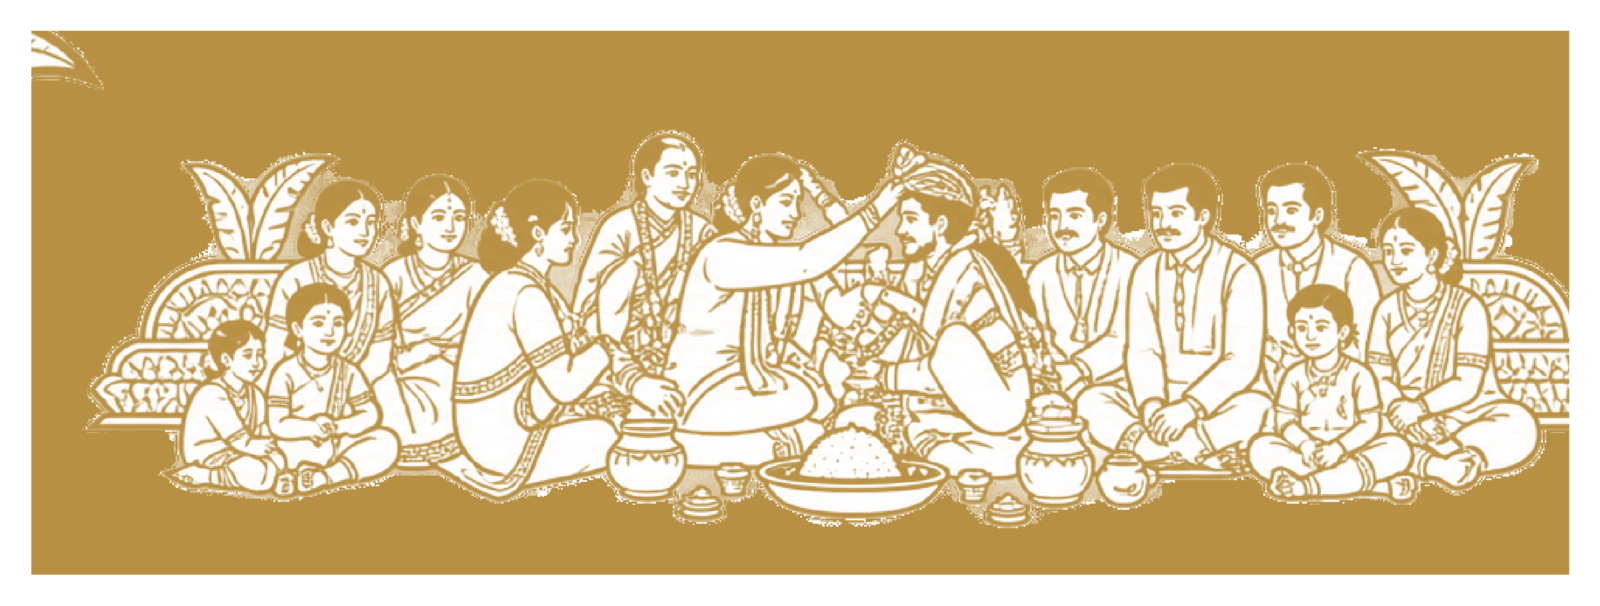
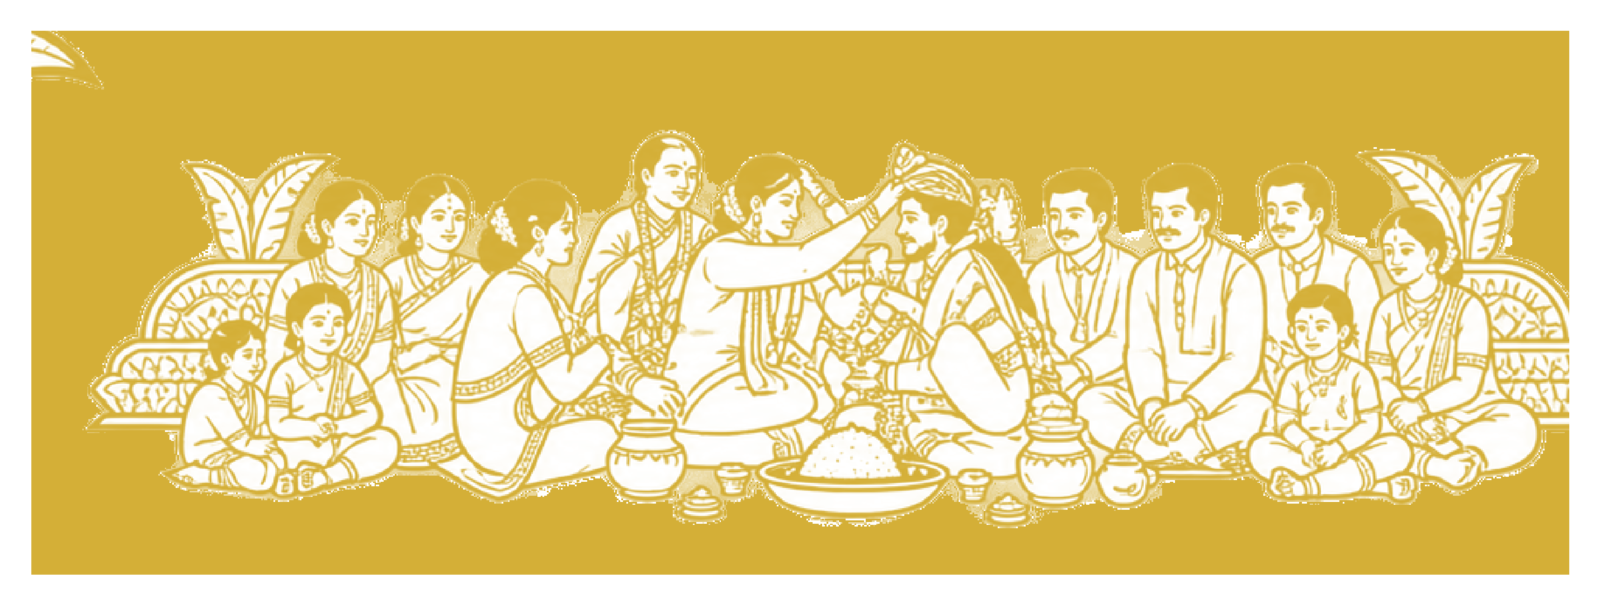
Wedding scene: pure shining gold with golden glow

diff --git a/app/components/HeroSection.tsx b/app/components/HeroSection.tsx
@@ -24,7 +24,7 @@ export default function HeroSection() {
           alt="Wedding family scene"
           initial={{ opacity: 0, y: -10 }} animate={{ opacity: 1, y: 0 }} transition={{ duration: 0.8 }}
           className="mx-auto mb-6"
-          style={{ width: "min(90vw, 520px)", height: "auto", filter: "drop-shadow(0 4px 14px rgba(0,0,0,0.4))" }}
+          style={{ width: "min(90vw, 520px)", height: "auto", filter: "drop-shadow(0 0 10px rgba(212,175,55,0.55)) drop-shadow(0 3px 10px rgba(154,118,40,0.4))", WebkitFilter: "drop-shadow(0 0 10px rgba(212,175,55,0.55))" }}
         />
 
         {/* Names */}
